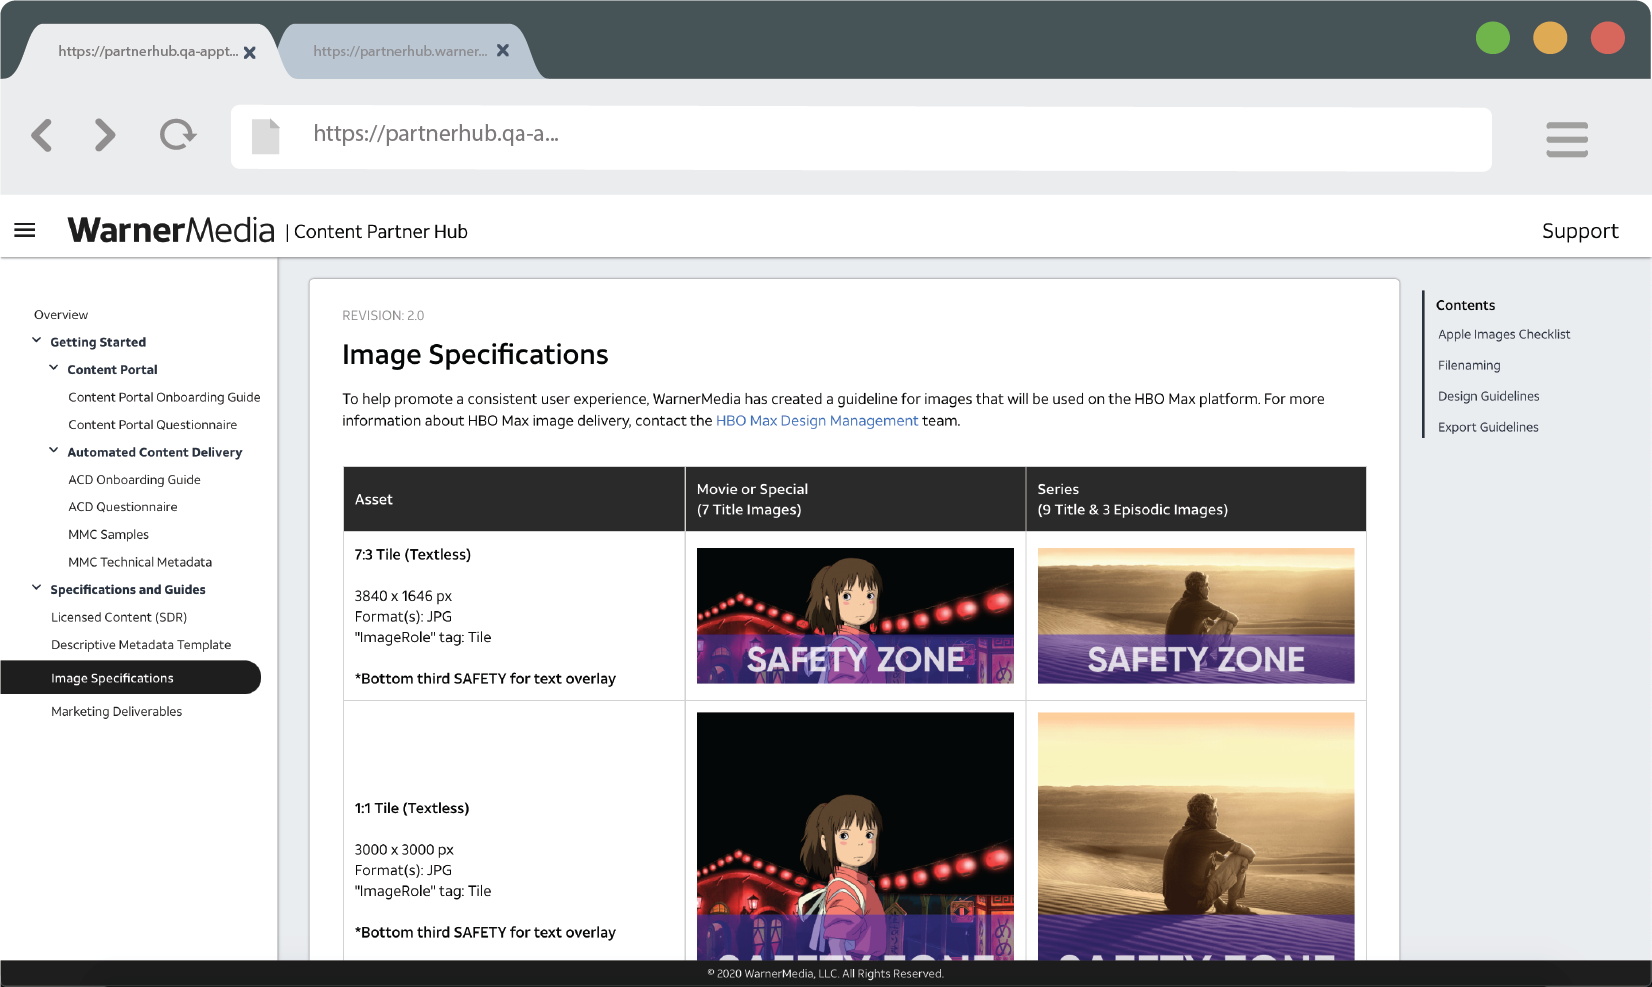
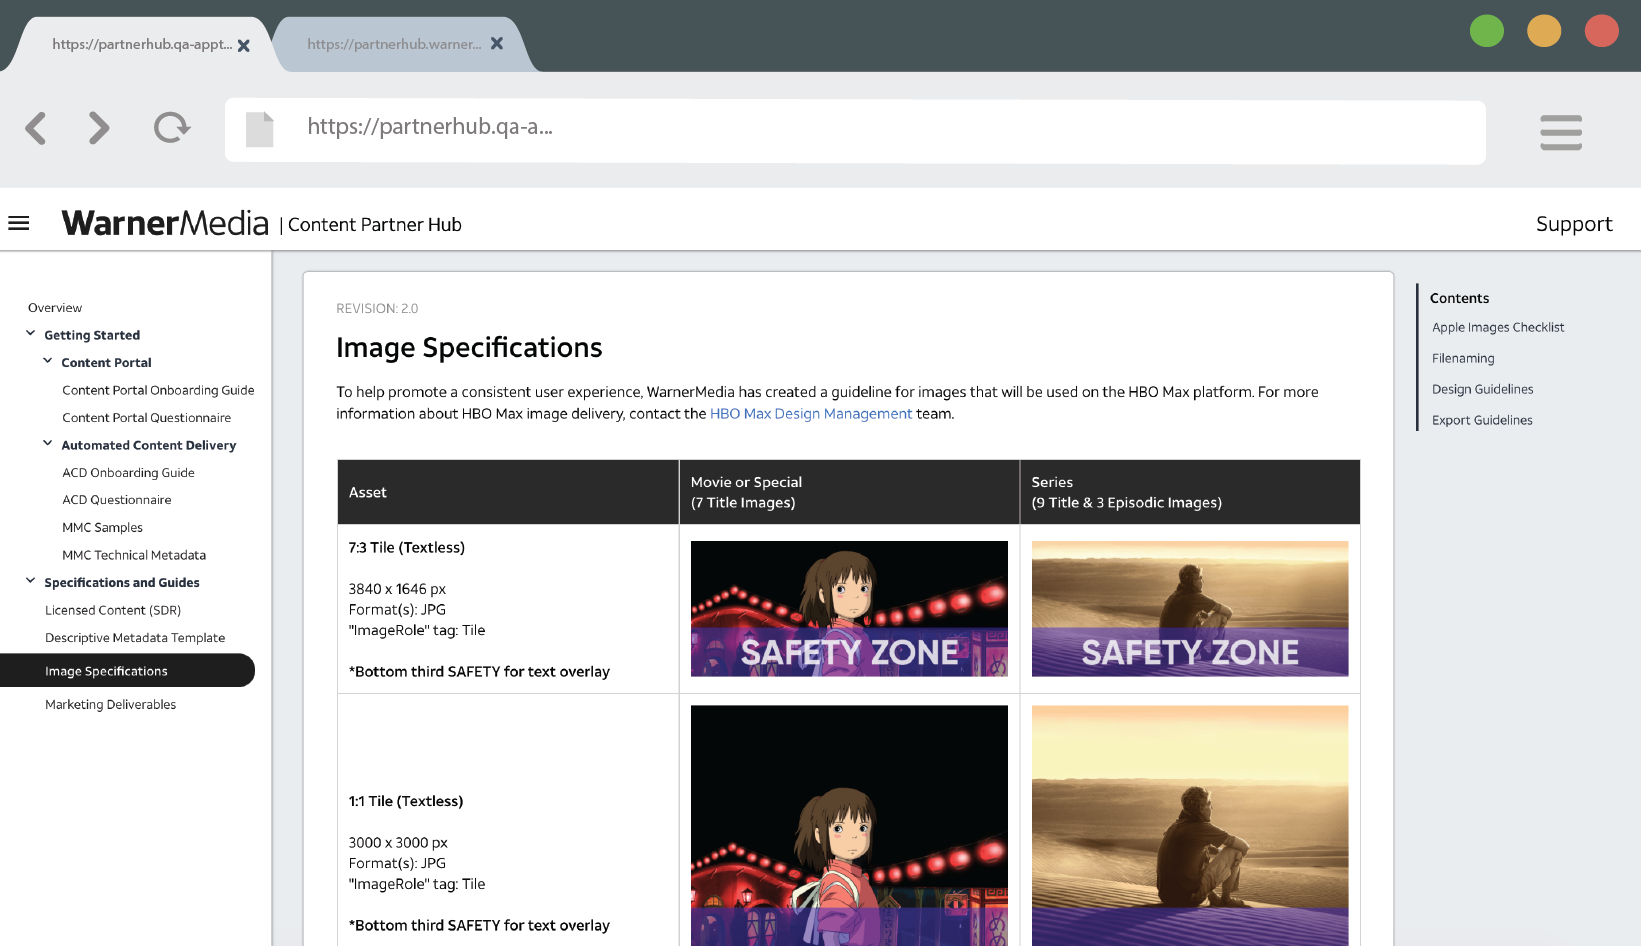
Changed the site colors from dark grey to black

diff --git a/css/blog.css b/css/blog.css
@@ -20,8 +20,6 @@
     --tw-warning: #f0ad4e;
     --tw-accent: #fc7a22;
   }
-  
-
 
   .body-2 {
     margin-top: -32px;
@@ -30,9 +28,6 @@
     max-width: 100%;
     min-width: 100%;
     background-color: var(--tw-light-gray);
-    
-  
-    
     -webkit-font-smoothing: antialiased;
     -moz-osx-font-smoothing: grayscale;
     
@@ -58,7 +53,7 @@
     background-repeat: no-repeat;
     background-size: cover;
     background-position: 50% 50%; */
-    background-color: white ;
+    background-color: black;
   }
 
   .intro-row {
@@ -3763,8 +3758,8 @@
     background-size: cover;
     background-position: 50% 50%;
     background-repeat: no-repeat;
-    background-color: var(--tw-dark-gray);
-    /* background-image: url(/images/bulb.jpeg); */
+    background-color: black;
+    /* background-image: url(/images/art-3.jpeg); */
     
 
   }
@@ -3793,7 +3788,7 @@
     background-size: cover;
     background-position: 50% 50%;
     background-repeat: no-repeat;
-    background-color: var(--tw-dark-gray);
+    background-color: black;
     
     
 
@@ -3856,7 +3851,7 @@
     background-size: cover;
     background-position: 50% 50%;
     background-repeat: no-repeat;
-    background-color: var(--tw-dark-gray);
+    background-color: black;
     
 
   }
@@ -3885,7 +3880,7 @@
     background-size: cover;
     background-position: 50% 50%;
     background-repeat: no-repeat;
-    background-color: var(--tw-dark-gray);
+    background-color: black;
     
 
   }
@@ -3914,7 +3909,7 @@
     background-size: cover;
     background-position: 50% 50%;
     background-repeat: no-repeat;
-    background-color: var(--tw-dark-gray);
+    background-color: black;
     
   }
 
@@ -4227,7 +4222,7 @@
 
     .caption-home {  
       text-align: center;
-      color: black;
+      color: white;
       padding: 1em;
       /* background: rgba(255, 255, 255, 0.983);
       border-radius: 8px; */

diff --git a/css/customstyles.css b/css/customstyles.css
@@ -274,8 +274,8 @@ h1, h2, h3, h4, h5, a, p, pre, code, ul, li, .summary {
     height: 50px;
     padding-right: 5vw;
     padding-left: 5vw;
-    background: var(--tw-dark-gray);
-    /* background: rgba(255, 255, 255, 0.7);
+    background: black;
+    /* background: rgba(0, 0, 0, 0.8);
     -webkit-backdrop-filter: saturate(180%) blur(20px);
     backdrop-filter: saturate(180%) blur(20px); */
 }
@@ -303,7 +303,7 @@ h1, h2, h3, h4, h5, a, p, pre, code, ul, li, .summary {
 }
 
 .footer-blog-post {
-    background-color: var(--tw-dark-gray);
+    background-color: black;
     position: absolute;
     bottom:-10;
     width:100%;
@@ -321,7 +321,7 @@ h1, h2, h3, h4, h5, a, p, pre, code, ul, li, .summary {
     width:100%;
     height:80px; 
     padding-top: 1em;
-    color: black;
+    color: white;
     font-size: 1em;
     font-family: Cambria, Cochin, Georgia, Times, 'Times New Roman', serif;
 }

diff --git a/_includes/footer-intro.html b/_includes/footer-intro.html
@@ -2,13 +2,13 @@
 <div class="footer-intro">
 
     <a class="btn" target="_blank" href="http://github.com/mr7brown">
-      <i class="fa fa-github fa-2x" style="color: var(--tw-black)"></i>
+      <i class="fa fa-github fa-2x" style="color: white"></i>
    </a>
 	<a class="btn" target="_blank" href="http://www.linkedin.com/in/ashton-brown-mba-6000238a/">
-      <i class="fa fa-linkedin fa-2x" style="color: var(--tw-black)"></i>
+      <i class="fa fa-linkedin fa-2x" style="color: white"></i>
    </a>
    <a class="btn" target="_blank" href="mailto:ashtonbrownmba@gmail.com">
-      <i class="fa fa-envelope fa-2x" style="color: var(--tw-black)"></i>
+      <i class="fa fa-envelope fa-2x" style="color: white"></i>
    </a>
    <br /> 
    &copy;{{ site.time | date: "%Y"  }} {{site.company_name}}. All rights reserved.

diff --git a/_includes/header.html b/_includes/header.html
@@ -6,9 +6,9 @@
             
             <a class="introlink" alt="resume link" target="_blank" href="http://drive.google.com/file/d/1DoY6JJZaSlv6UbdbyYUnKd-CrQWhh0we/view?usp=sharing">Resume</a>
             <a class="introlink" alt="style guide link" href="/style_intro.html">Style Guide</a>
-            <!-- comment out
-            <a class="introlink" alt="blog link" href="/tech-blog.html">Tech Blog</a>
-           -->
+          
+            <a class="introlink" alt="blog link" href="/tech-blog.html">Blog</a>
+           
             <a class="introlink" alt="portfolio link" href="/portfolio.html">Portfolio</a>
         
             

diff --git a/_layouts/print.html b/_layouts/print.html
@@ -6,7 +6,7 @@
 </head>
 <body class="body-intro"> 
 <header>
-    {% include header-2.html %}
+    {% include header.html %}
 </header>
 
 <div class="caption-home">
@@ -20,7 +20,7 @@
 </div>
 
 {% include footer-intro.html %}
-</body>    
+</body> 
 
 
 
